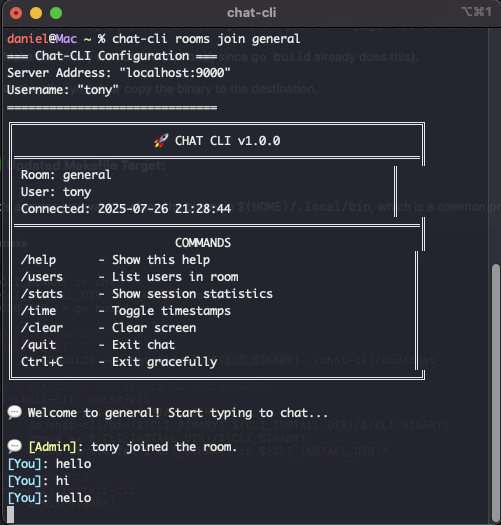
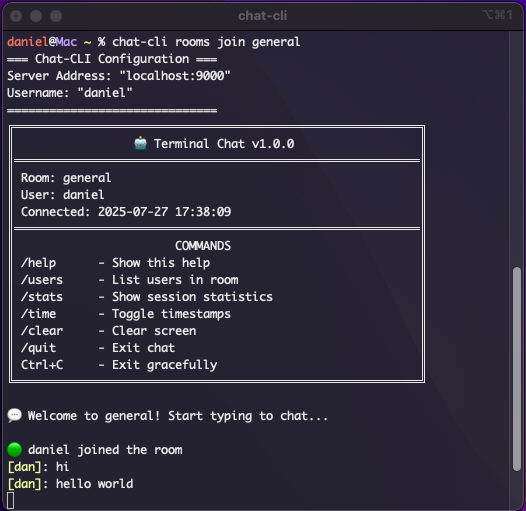
docs: update doc

Changed region(s): [[0.0, 0.0, 1.0, 1.0]]

diff --git a/chat-cli/cmd/join.go b/chat-cli/cmd/join.go
@@ -118,7 +118,7 @@ func connectAndJoinRoom(roomName string) (net.Conn, *json.Encoder, *json.Decoder
 func printWelcome(session *chatSession) {
     clearScreen()
     fmt.Println("╔══════════════════════════════════════════════════════════╗")
-    fmt.Printf("║                 🚀 Terminal Chat v1.0.0                  ║\n")
+    fmt.Printf("║                 🤖 Terminal Chat v1.0.0                  ║\n")
     fmt.Println("║══════════════════════════════════════════════════════════║")
     fmt.Printf("║ Room: %-51s║\n", session.roomName)
     fmt.Printf("║ User: %-51s║\n", session.username)

diff --git a/README.md b/README.md
@@ -13,7 +13,7 @@ A simple command-line chat application built with Go, consisting of a chat serve
 
 #### Commands
 
-- `chat-cli init`:	Initialize configuration file
+- `chat-cli init`:	Initialize configuration file (username and server address)
 - `chat-cli -h`:	Show help information
 - `chat-cli rooms list`:	List all available rooms
 - `chat-cli rooms join <room>`:	Join or create a specific room
@@ -26,8 +26,8 @@ A simple command-line chat application built with Go, consisting of a chat serve
 
 1. Clone the repository:
 ```bash
-git clone https://github.com/danieljhkim/terminal-chat.git
-cd terminal-chat
+git clone https://github.com/danieljhkim/Terminal-Chat.git
+cd Terminal-Chat
 ```
 
 2. Build the project:
@@ -57,7 +57,7 @@ make run-server
 chat-cli init
 
 # join/create a chat room
-chat-cli rooms join newRoom
+chat-cli rooms join room_name
 ```
 
 ## Acknowledgments
